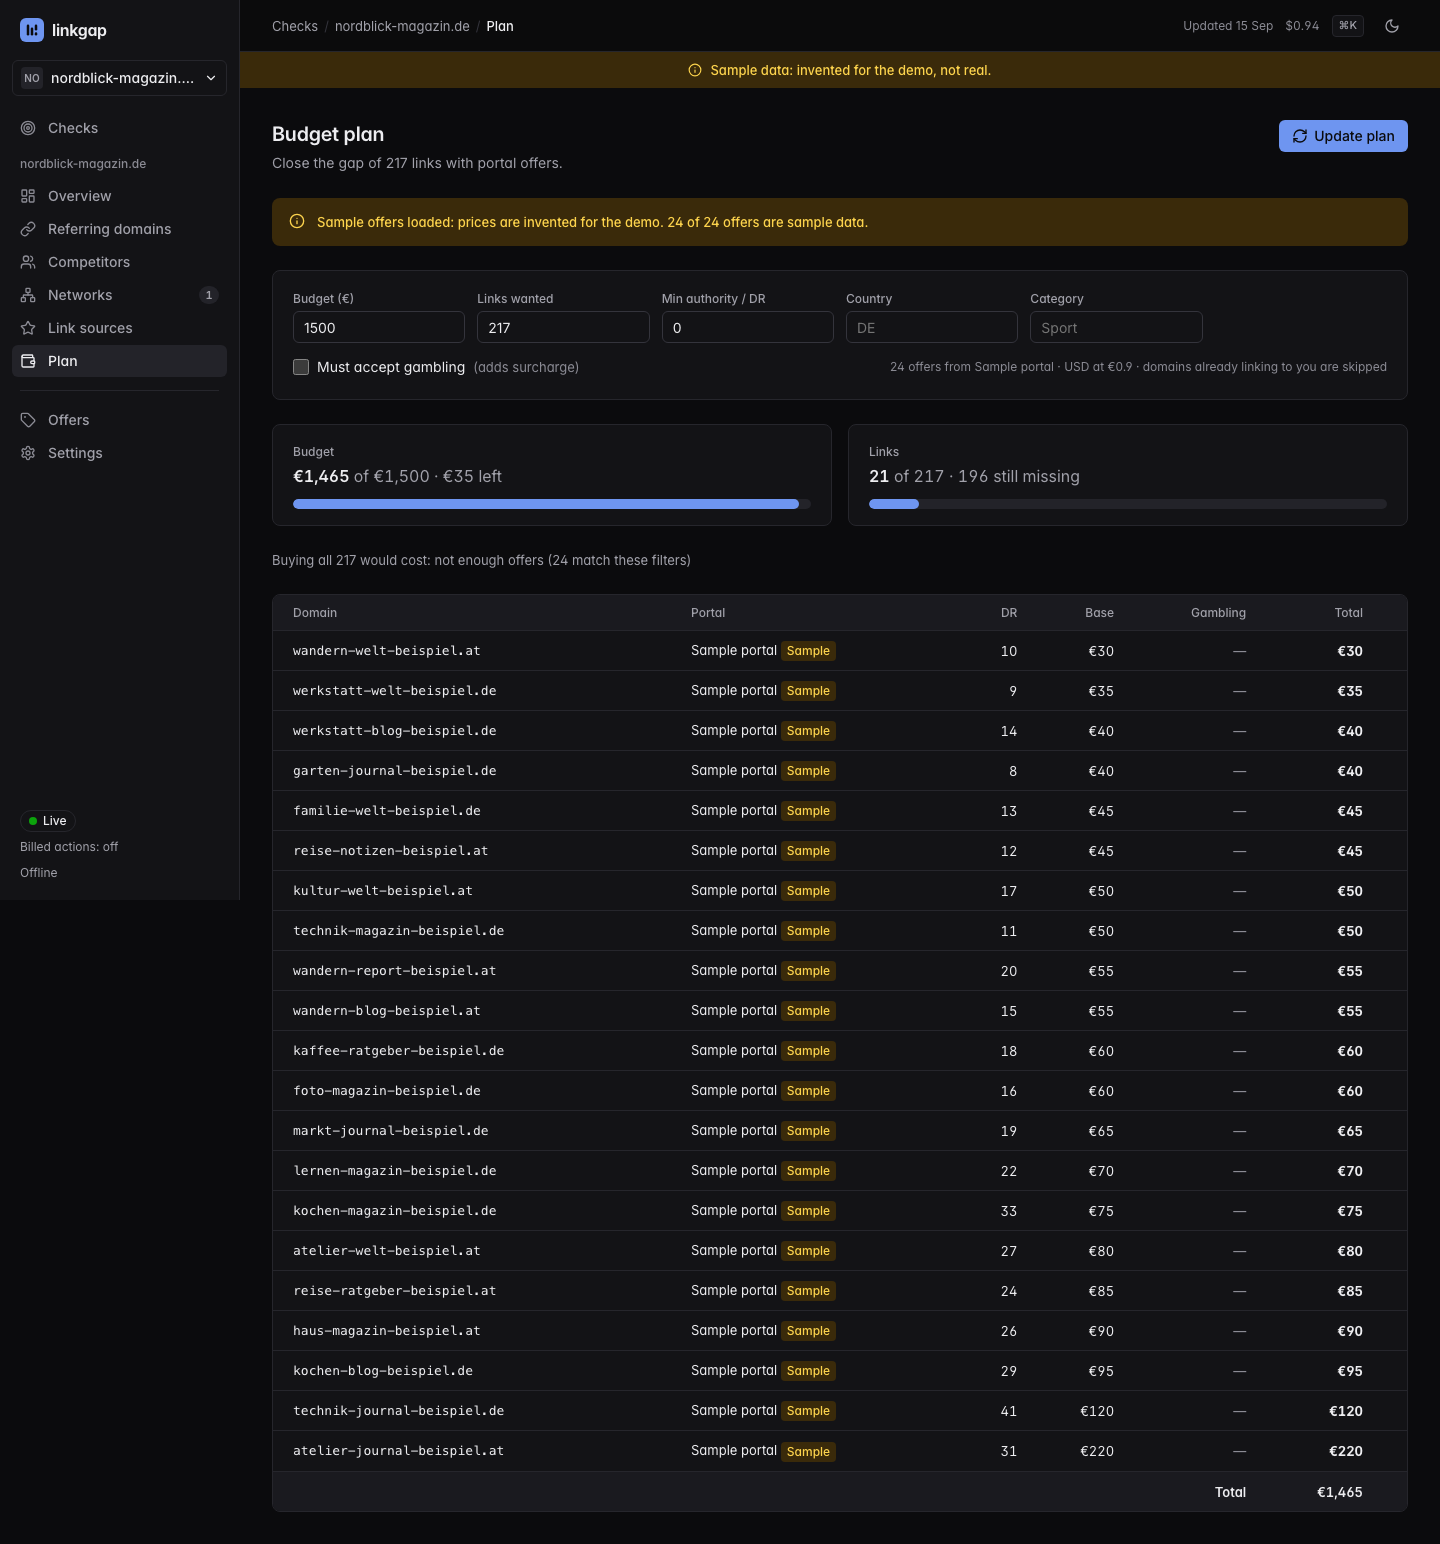
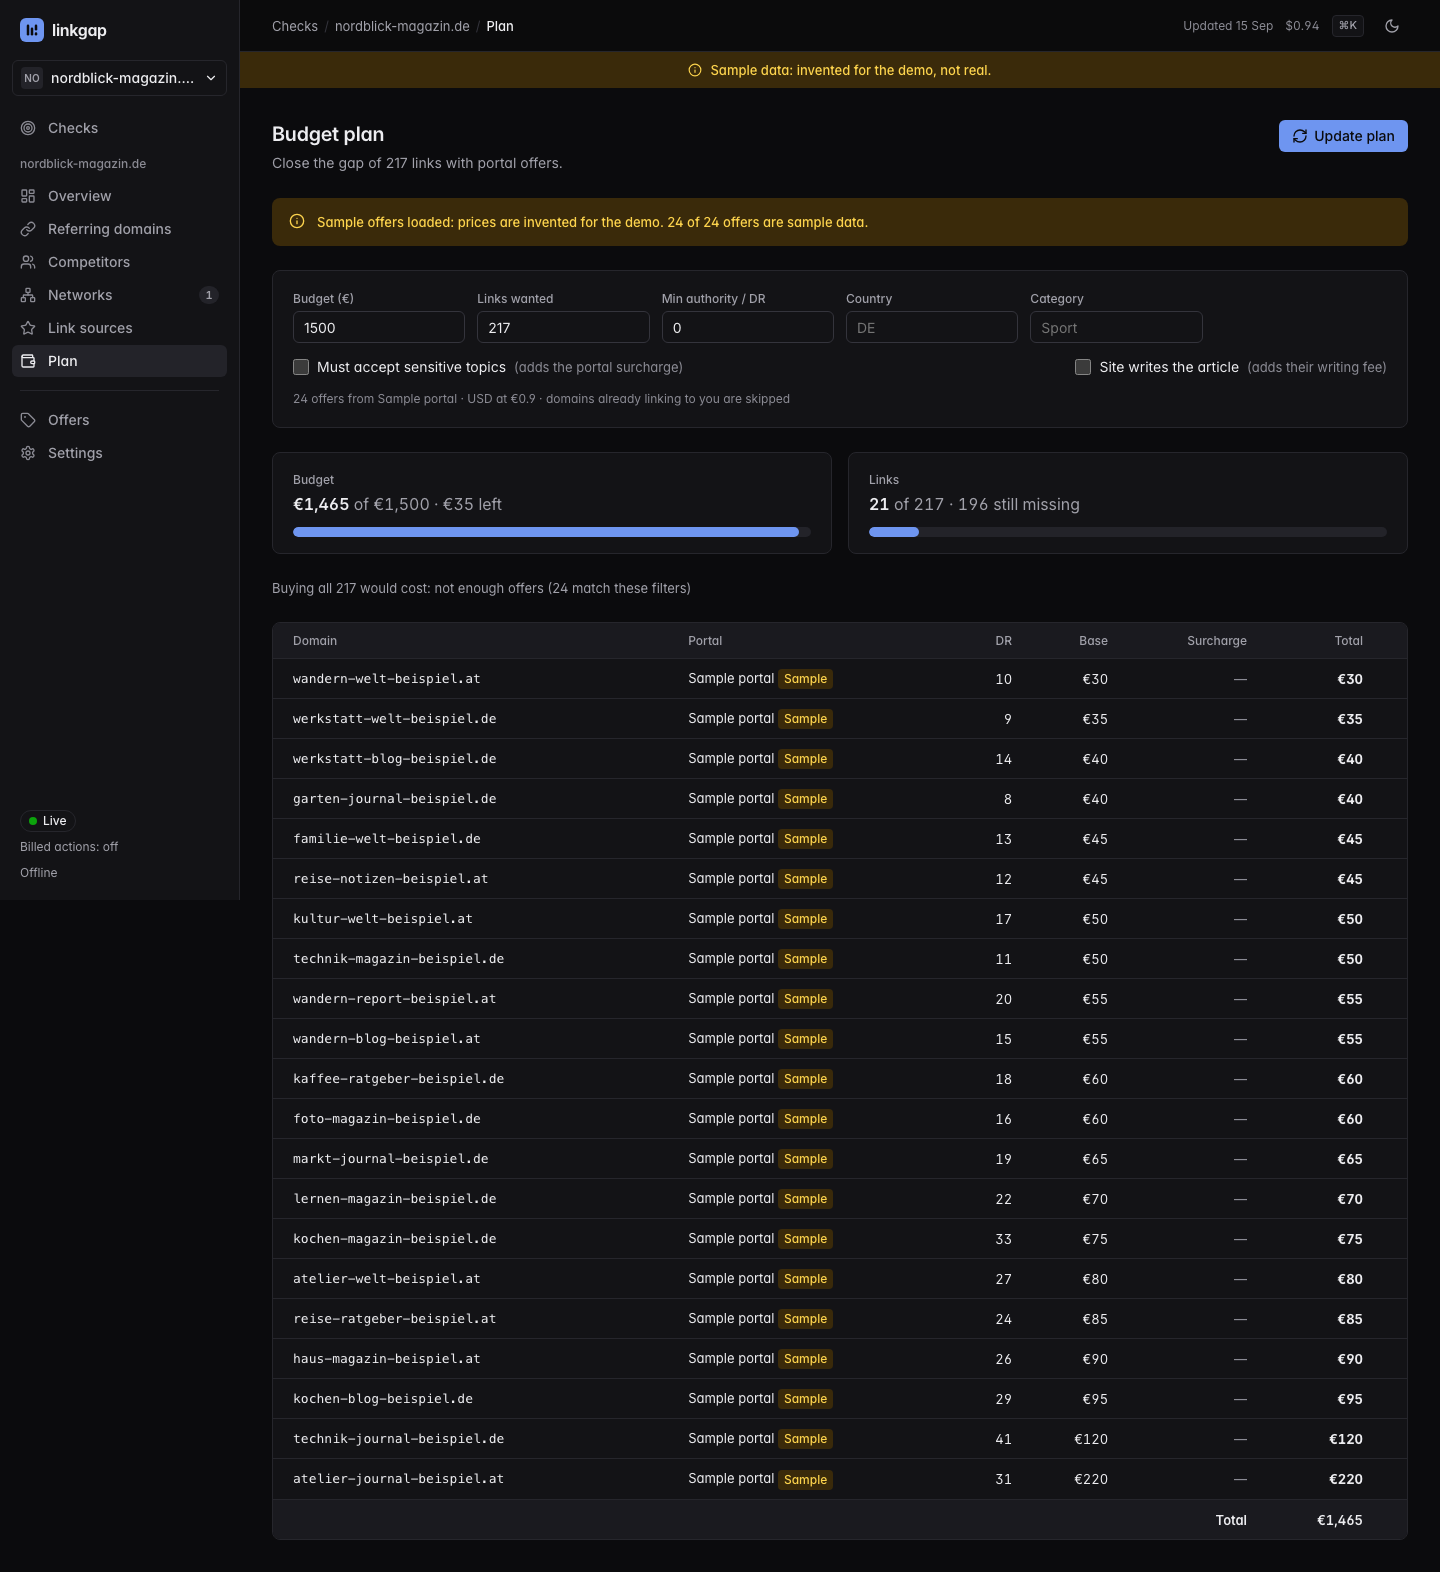
Refresh the plan screenshot after the sensitive-topics rename
Claude-Session: https://claude.ai/code/session_012yyshPtUyHD4xxq4cyuqhN

diff --git a/index.html b/index.html
@@ -224,7 +224,7 @@
           <figure class="shot">
             <picture>
               <source srcset="img/plan-dark.png" media="(prefers-color-scheme: dark)">
-              <img src="img/plan-light.png" width="1440" height="1544" loading="lazy" decoding="async"
+              <img src="img/plan-light.png" width="1440" height="1572" loading="lazy" decoding="async"
                    alt="The budget plan screen with a yellow banner reading sample data invented for the demo not real, a budget meter at €1,465 of €1,500 with €35 left, a links meter at 21 of 217 with 196 still missing, and a table of offers with base price, surcharge and total, every row badged Sample.">
             </picture>
           </figure>
